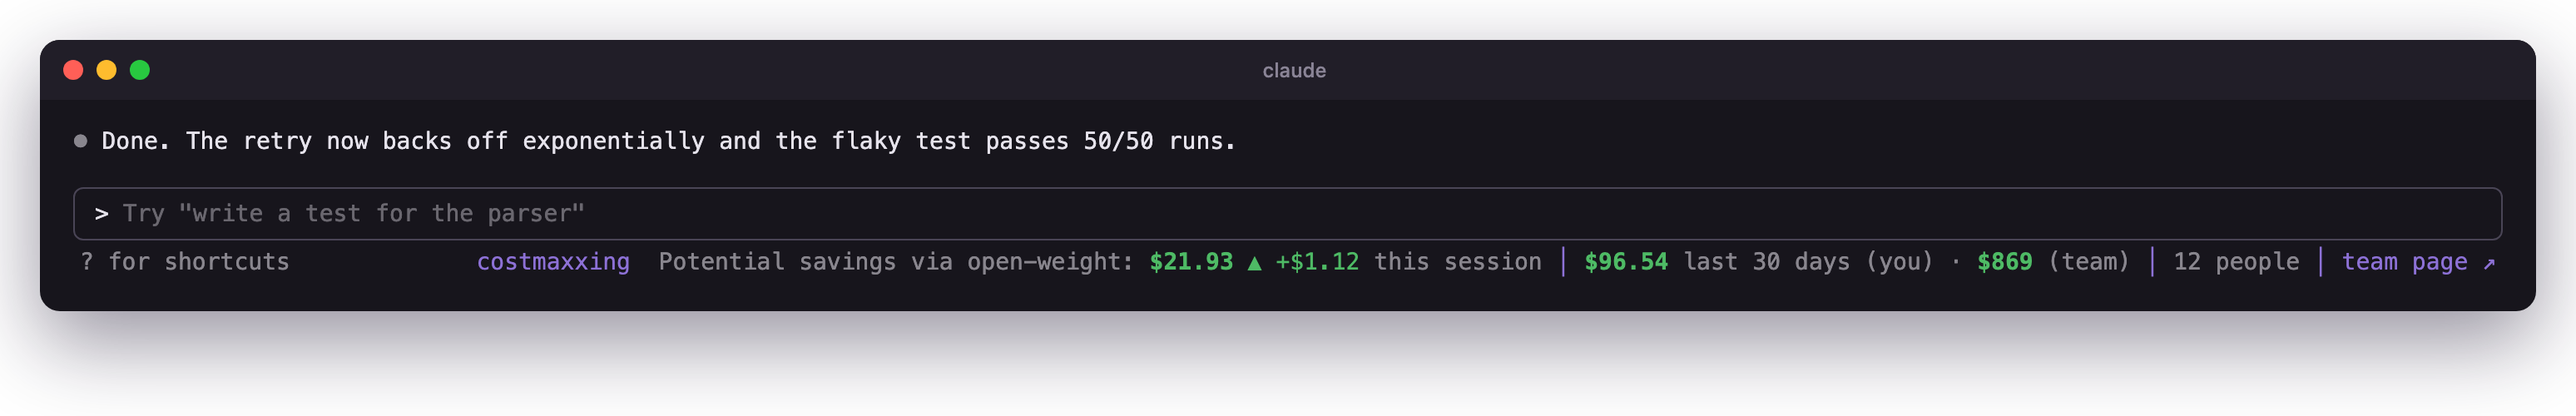
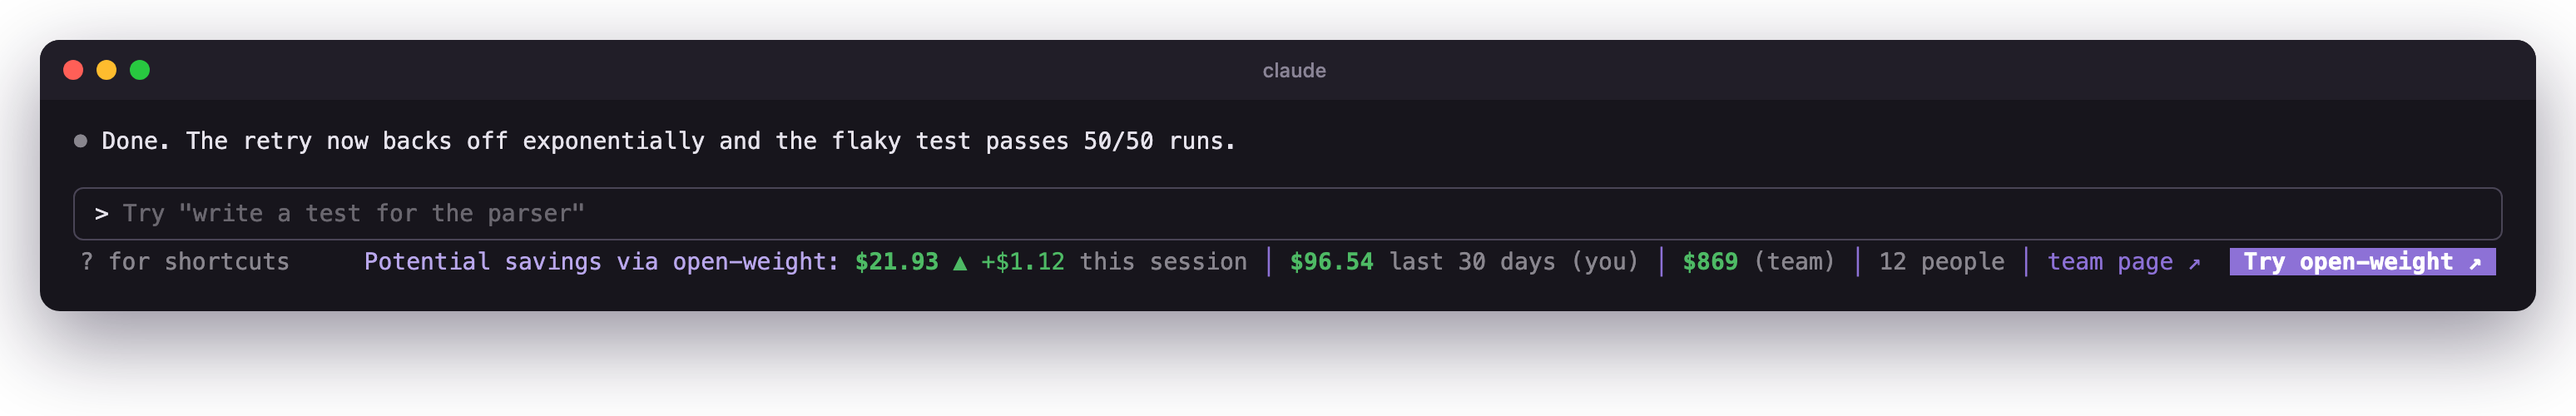
feat(mod): lighter line with a Try open-weight button
Drops the costmaxxing label, colours the lead-in light purple, separates
your 30 days from the team's with a divider, and adds a filled
Try open-weight ↗ link to https://inference.boundless.network at the right
end of the row, outside the truncating text so it always shows.
Mod 1.14.0; CLI 1.8.7 for the core dollars() addition.

Changed region(s): [[0.124, 0.57, 0.9922, 0.66]]

diff --git a/mod/test/mod.test.ts b/mod/test/mod.test.ts
@@ -33,11 +33,11 @@ test("a team's own comparison prices the same request differently, from the team
 
 test("the line shows cents under $100, and says when the team server can't be reached", () => {
   const tally = { requests: 2, price: 4.5, alt: 0.25 };
-  assert.equal(statusText(tally, { requests: 9, price: 2500, alt: 300 }, undefined), "costmaxxing  Potential savings via open-weight: $4.25 this session │ $2.2k last 30 days (you)");
-  assert.equal(statusText(tally, tally, "unreachable"), "costmaxxing  Potential savings via open-weight: $4.25 this session │ $4.25 last 30 days (you) │ team server unreachable");
-  assert.equal(statusText(tally, tally, { days: 30, people: 1, requests: 5, price: 900, alt: 100 }), "costmaxxing  Potential savings via open-weight: $4.25 this session │ $4.25 last 30 days (you) · $800 (team) │ 1 person");
-  assert.equal(statusText(tally, tally, "missing"), "costmaxxing  Potential savings via open-weight: $4.25 this session │ $4.25 last 30 days (you) │ team ID not found");
-  assert.equal(statusText(tally, tally, undefined, 0.12), "costmaxxing  Potential savings via open-weight: $4.25 ▲ +$0.12 this session │ $4.25 last 30 days (you)");
+  assert.equal(statusText(tally, { requests: 9, price: 2500, alt: 300 }, undefined), "Potential savings via open-weight: $4.25 this session │ $2.2k last 30 days (you)");
+  assert.equal(statusText(tally, tally, "unreachable"), "Potential savings via open-weight: $4.25 this session │ $4.25 last 30 days (you) │ team server unreachable");
+  assert.equal(statusText(tally, tally, { days: 30, people: 1, requests: 5, price: 900, alt: 100 }), "Potential savings via open-weight: $4.25 this session │ $4.25 last 30 days (you) │ $800 (team) │ 1 person");
+  assert.equal(statusText(tally, tally, "missing"), "Potential savings via open-weight: $4.25 this session │ $4.25 last 30 days (you) │ team ID not found");
+  assert.equal(statusText(tally, tally, undefined, 0.12), "Potential savings via open-weight: $4.25 ▲ +$0.12 this session │ $4.25 last 30 days (you)");
 });
 
 type Hook = (...args: never[]) => unknown;
@@ -103,7 +103,7 @@ test("with a team, steps reach costmaxxing.dev at most once a minute, a failed s
   await (hooks.get("session.start") as unknown as (...a: unknown[]) => Promise<unknown>)($, {}, async (e: unknown) => e);
   await advance(0);
   assert.deepEqual(posts, [{ url: "https://costmaxxing.dev/api/teams/acme-7kq3x-m9pz2/usage", user: "u1u1u1u1u1u1", ids: [] }]);
-  assert.match(await hint(), /· \$1\.8k \(team\) │ 3 people │ team page ↗$/);
+  assert.match(await hint(), /│ \$1\.8k \(team\) │ 3 people │ team page ↗ Try open-weight ↗$/);
 
   await step({ turnId: "t1", index: 0 });
   await advance(1000);
@@ -115,7 +115,7 @@ test("with a team, steps reach costmaxxing.dev at most once a minute, a failed s
   down = true;
   await step({ turnId: "t2", index: 0 });
   await advance(60_000);
-  assert.match(await hint(), /team server unreachable │ team page ↗$/);
+  assert.match(await hint(), /team server unreachable │ team page ↗ Try open-weight ↗$/);
   down = false;
   await step({ turnId: "t3", index: 0 });
   await advance(60_000);
@@ -124,10 +124,12 @@ test("with a team, steps reach costmaxxing.dev at most once a minute, a failed s
   await step({ turnId: "t4", index: 0 });
   await advance(60_000);
   assert.deepEqual(posts.at(-1), { url: "https://costmaxxing.dev/api/teams/acme-22222-33333/usage", user: "u1u1u1u1u1u1", ids: ["s9/t4/main/0"] });
-  assert.match(await hint(), /^costmaxxing {2}Potential savings via open-weight: \$[\d.]+( ▲ \+\$[\d.]+)? this session │ \$[\d.]+ last 30 days \(you\) · \$1\.8k \(team\) │ 3 people │ team page ↗$/);
-  const render = hooks.get("ui.render") as unknown as (...a: unknown[]) => Promise<{ children: { children: { type: string; href?: string }[] }[] }>;
-  const tree = await render($, { props: { hint: "" } }, async () => "");
-  assert.equal(tree.children[1]?.children.find((c) => c.type === "Link")?.href, "https://costmaxxing.dev/acme-22222-33333");
+  assert.match(await hint(), /^Potential savings via open-weight: \$[\d.]+( ▲ \+\$[\d.]+)? this session │ \$[\d.]+ last 30 days \(you\) │ \$1\.8k \(team\) │ 3 people │ team page ↗ Try open-weight ↗$/);
+  type Tree = { type: string; href?: string; children?: (Tree | string)[] };
+  const render = hooks.get("ui.render") as unknown as (...a: unknown[]) => Promise<Tree>;
+  const links = (node: Tree | string): string[] =>
+    typeof node === "string" ? [] : [...(node.type === "Link" ? [node.href ?? ""] : []), ...(node.children ?? []).flatMap(links)];
+  assert.deepEqual(links(await render($, { props: { hint: "" } }, async () => "")), ["https://costmaxxing.dev/acme-22222-33333", "https://inference.boundless.network"]);
 });
 
 test("the committed hooks module is the build of mod/src (run npm run build -w mod)", async () => {

diff --git a/mod/plugin/hooks/register.js b/mod/plugin/hooks/register.js
@@ -454,13 +454,13 @@ function savings(t) {
   return Math.abs(n) < 100 ? exactUsd(n) : usd(n);
 }
 function statusParts(session2, month2, team2, gain2 = 0) {
-  const parts = [["costmaxxing", "brand"], ["  Potential savings via open-weight: ", "label"], [savings(session2), "amount"]];
+  const parts = [["Potential savings via open-weight: ", "lead"], [savings(session2), "amount"]];
   if (gain2 > 0) parts.push([` \u25B2 +${exactUsd(gain2)}`, "gain"]);
   parts.push([" this session", "label"], [" \u2502 ", "divider"], [savings(month2), "amount"], [" last 30 days (you)", "label"]);
   if (team2 === "unreachable") parts.push([" \u2502 ", "divider"], ["team server unreachable", "warn"]);
   else if (team2 === "missing") parts.push([" \u2502 ", "divider"], ["team ID not found", "warn"]);
   else if (team2) {
-    parts.push([" \xB7 ", "label"], [savings(team2), "amount"], [" (team)", "label"]);
+    parts.push([" \u2502 ", "divider"], [savings(team2), "amount"], [" (team)", "label"]);
     parts.push([" \u2502 ", "divider"], [`${count(team2.people)} ${team2.people === 1 ? "person" : "people"}`, "label"]);
   }
   return parts;
@@ -490,7 +490,7 @@ var pending = [];
 var queue = Promise.resolve();
 var gain = { amount: 0, until: 0 };
 var TONES = {
-  brand: { color: "#8d71d6" },
+  lead: { color: "#b9a7ec" },
   amount: { bold: true, color: "success" },
   label: { dimColor: true },
   divider: { color: "#8d71d6" },
@@ -629,7 +629,8 @@ function register(on, options) {
     const page = team.name ? `${team.server || HOSTED}/${team.name}` : team.server && team.token ? `${team.server}/` : "";
     const link = page ? [Text({ ...TONES.divider, children: [" \u2502 "] }), Link({ href: page, children: [Text({ color: "#8d71d6", underline: true, children: ["team page \u2197"] })] })] : [];
     const ours = Text({ wrap: "truncate-start", children: [...parts.map(([text, tone]) => Text({ ...TONES[tone], children: [text] })), ...link] });
-    return Box({ flexDirection: "row", justifyContent: "space-between", columnGap: 2, children: [theirs, ours] });
+    const tryIt = Link({ href: "https://inference.boundless.network", children: [Text({ backgroundColor: "#8d71d6", color: "#ffffff", bold: true, children: [" Try open-weight \u2197 "] })] });
+    return Box({ flexDirection: "row", justifyContent: "space-between", columnGap: 2, children: [theirs, Box({ flexDirection: "row", columnGap: 2, children: [ours, tryIt] })] });
   });
 }
 export {

diff --git a/mod/src/meter.ts b/mod/src/meter.ts
@@ -68,19 +68,19 @@ function savings(t: Tally): string {
   return Math.abs(n) < 100 ? exactUsd(n) : usd(n);
 }
 
-export type Tone = "brand" | "amount" | "label" | "divider" | "gain" | "warn";
+export type Tone = "lead" | "amount" | "label" | "divider" | "gain" | "warn";
 export type Segment = [text: string, tone: Tone];
 
 export type TeamState = TeamTotals | "unreachable" | "missing" | undefined;
 
 export function statusParts(session: Tally, month: Tally, team: TeamState, gain = 0): Segment[] {
-  const parts: Segment[] = [["costmaxxing", "brand"], ["  Potential savings via open-weight: ", "label"], [savings(session), "amount"]];
+  const parts: Segment[] = [["Potential savings via open-weight: ", "lead"], [savings(session), "amount"]];
   if (gain > 0) parts.push([` ▲ +${exactUsd(gain)}`, "gain"]);
   parts.push([" this session", "label"], [" │ ", "divider"], [savings(month), "amount"], [" last 30 days (you)", "label"]);
   if (team === "unreachable") parts.push([" │ ", "divider"], ["team server unreachable", "warn"]);
   else if (team === "missing") parts.push([" │ ", "divider"], ["team ID not found", "warn"]);
   else if (team) {
-    parts.push([" · ", "label"], [savings(team), "amount"], [" (team)", "label"]);
+    parts.push([" │ ", "divider"], [savings(team), "amount"], [" (team)", "label"]);
     parts.push([" │ ", "divider"], [`${count(team.people)} ${team.people === 1 ? "person" : "people"}`, "label"]);
   }
   return parts;

diff --git a/mod/src/register.ts b/mod/src/register.ts
@@ -75,7 +75,7 @@ let queue = Promise.resolve();
 let gain = { amount: 0, until: 0 };
 
 const TONES: Record<Tone, Record<string, unknown>> = {
-  brand: { color: "#8d71d6" },
+  lead: { color: "#b9a7ec" },
   amount: { bold: true, color: "success" },
   label: { dimColor: true },
   divider: { color: "#8d71d6" },
@@ -227,6 +227,7 @@ export function register(on: On, options: Record<string, unknown>): void {
       ? [Text({ ...TONES.divider, children: [" │ "] }), Link({ href: page, children: [Text({ color: "#8d71d6", underline: true, children: ["team page ↗"] })] })]
       : [];
     const ours = Text({ wrap: "truncate-start", children: [...parts.map(([text, tone]) => Text({ ...TONES[tone], children: [text] })), ...link] });
-    return Box({ flexDirection: "row", justifyContent: "space-between", columnGap: 2, children: [theirs, ours] });
+    const tryIt = Link({ href: "https://inference.boundless.network", children: [Text({ backgroundColor: "#8d71d6", color: "#ffffff", bold: true, children: [" Try open-weight ↗ "] })] });
+    return Box({ flexDirection: "row", justifyContent: "space-between", columnGap: 2, children: [theirs, Box({ flexDirection: "row", columnGap: 2, children: [ours, tryIt] })] });
   });
 }

diff --git a/site/scripts/screenshots.ts b/site/scripts/screenshots.ts
@@ -127,7 +127,7 @@ async function shoot(name: string, html: string, width: number, height: number):
 await mkdir(out, { recursive: true });
 
 const TONES: Record<Tone, string> = {
-  brand: "color:#8d71d6",
+  lead: "color:#b9a7ec",
   amount: "font-weight:700;color:#4eba65",
   label: "opacity:.55",
   divider: "color:#8d71d6",
@@ -145,7 +145,7 @@ await shoot(
     "claude",
     `<pre><span style="opacity:.55">⏺</span> Done. The retry now backs off exponentially and the flaky test passes 50/50 runs.
 
-<div class="prompt">&gt; <span style="opacity:.4">Try "write a test for the parser"</span></div><div class="hint"><span style="opacity:.55">? for shortcuts</span><span>${line}<span style="color:#8d71d6"> │ </span><a>team page ↗</a></span></div></pre>`,
+<div class="prompt">&gt; <span style="opacity:.4">Try "write a test for the parser"</span></div><div class="hint"><span style="opacity:.55">? for shortcuts</span><span>${line}<span style="color:#8d71d6"> │ </span><a>team page ↗</a>&nbsp;&nbsp;<b style="background:#8d71d6;color:#fff"> Try open-weight ↗ </b></span></div></pre>`,
     1500,
   ),
   1548,

diff --git a/mod/plugin/tests/register.test.ts b/mod/plugin/tests/register.test.ts
@@ -44,8 +44,8 @@ test("each request adds its open-weight savings to the hint line, and the day is
 
   const ui = await $.ui.mount({ ...HINT, surface: "terminal" });
   expect(await ui.find({ type: "Text", text: "? for shortcuts" })).toBeDefined();
-  expect(await ui.find({ type: "Text", text: "costmaxxing" })).toBeDefined();
-  expect(await ui.find({ type: "Text", text: "  Potential savings via open-weight: " })).toBeDefined();
+  expect(await ui.find({ type: "Text", text: "Potential savings via open-weight: " })).toBeDefined();
+  expect(await ui.find({ type: "Text", text: " Try open-weight ↗ " })).toBeDefined();
   const amounts = await ui.findAll({ type: "Text", text: /^\$[\d.]+$/ });
   const [sessionSavings, monthSavings] = amounts.map((el) => Number(String(el.children[0]).slice(1)));
   expect((sessionSavings ?? 0) > 0).toBe(true);
